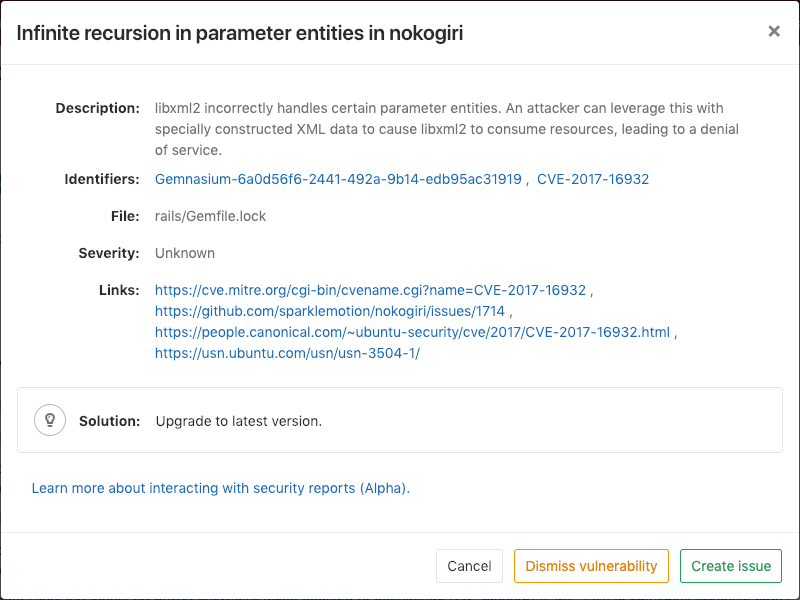
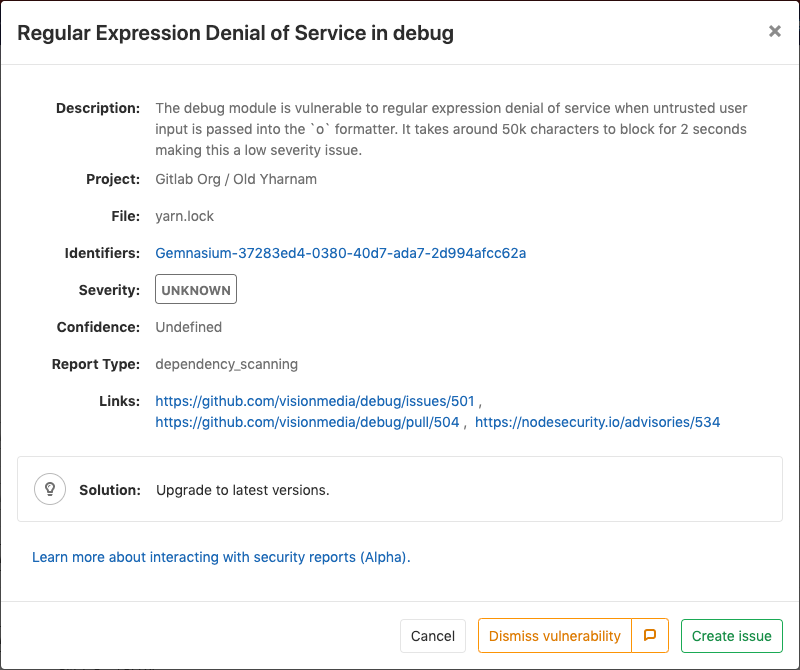
Adds documentation for dismissal reasons

diff --git a/doc/user/application_security/index.md b/doc/user/application_security/index.md
@@ -47,6 +47,16 @@ You can dismiss vulnerabilities by clicking the **Dismiss vulnerability** button
 This will dismiss the vulnerability and re-render it to reflect its dismissed state.
 If you wish to undo this dismissal, you can click the **Undo dismiss** button.
 
+#### Adding a dismissal reason
+
+> Introduced in [GitLab Ultimate](https://about.gitlab.com/pricing) 12.0.
+
+When dismissing a vulnerability it's often helpful to provide a reason for doing so.
+If you press the comment button next to **Dismiss vulnerability** in the modal a text box will appear allowing you to add a comment with your dismissal.
+This comment can not currently be edited or removed, but future versions will add this functionality.
+
+![Dismissed vulnerability comment](img/dismissed_info.png)
+
 ### Creating an issue for a vulnerability
 
 You can create an issue for a vulnerability by selecting the **Create issue**
